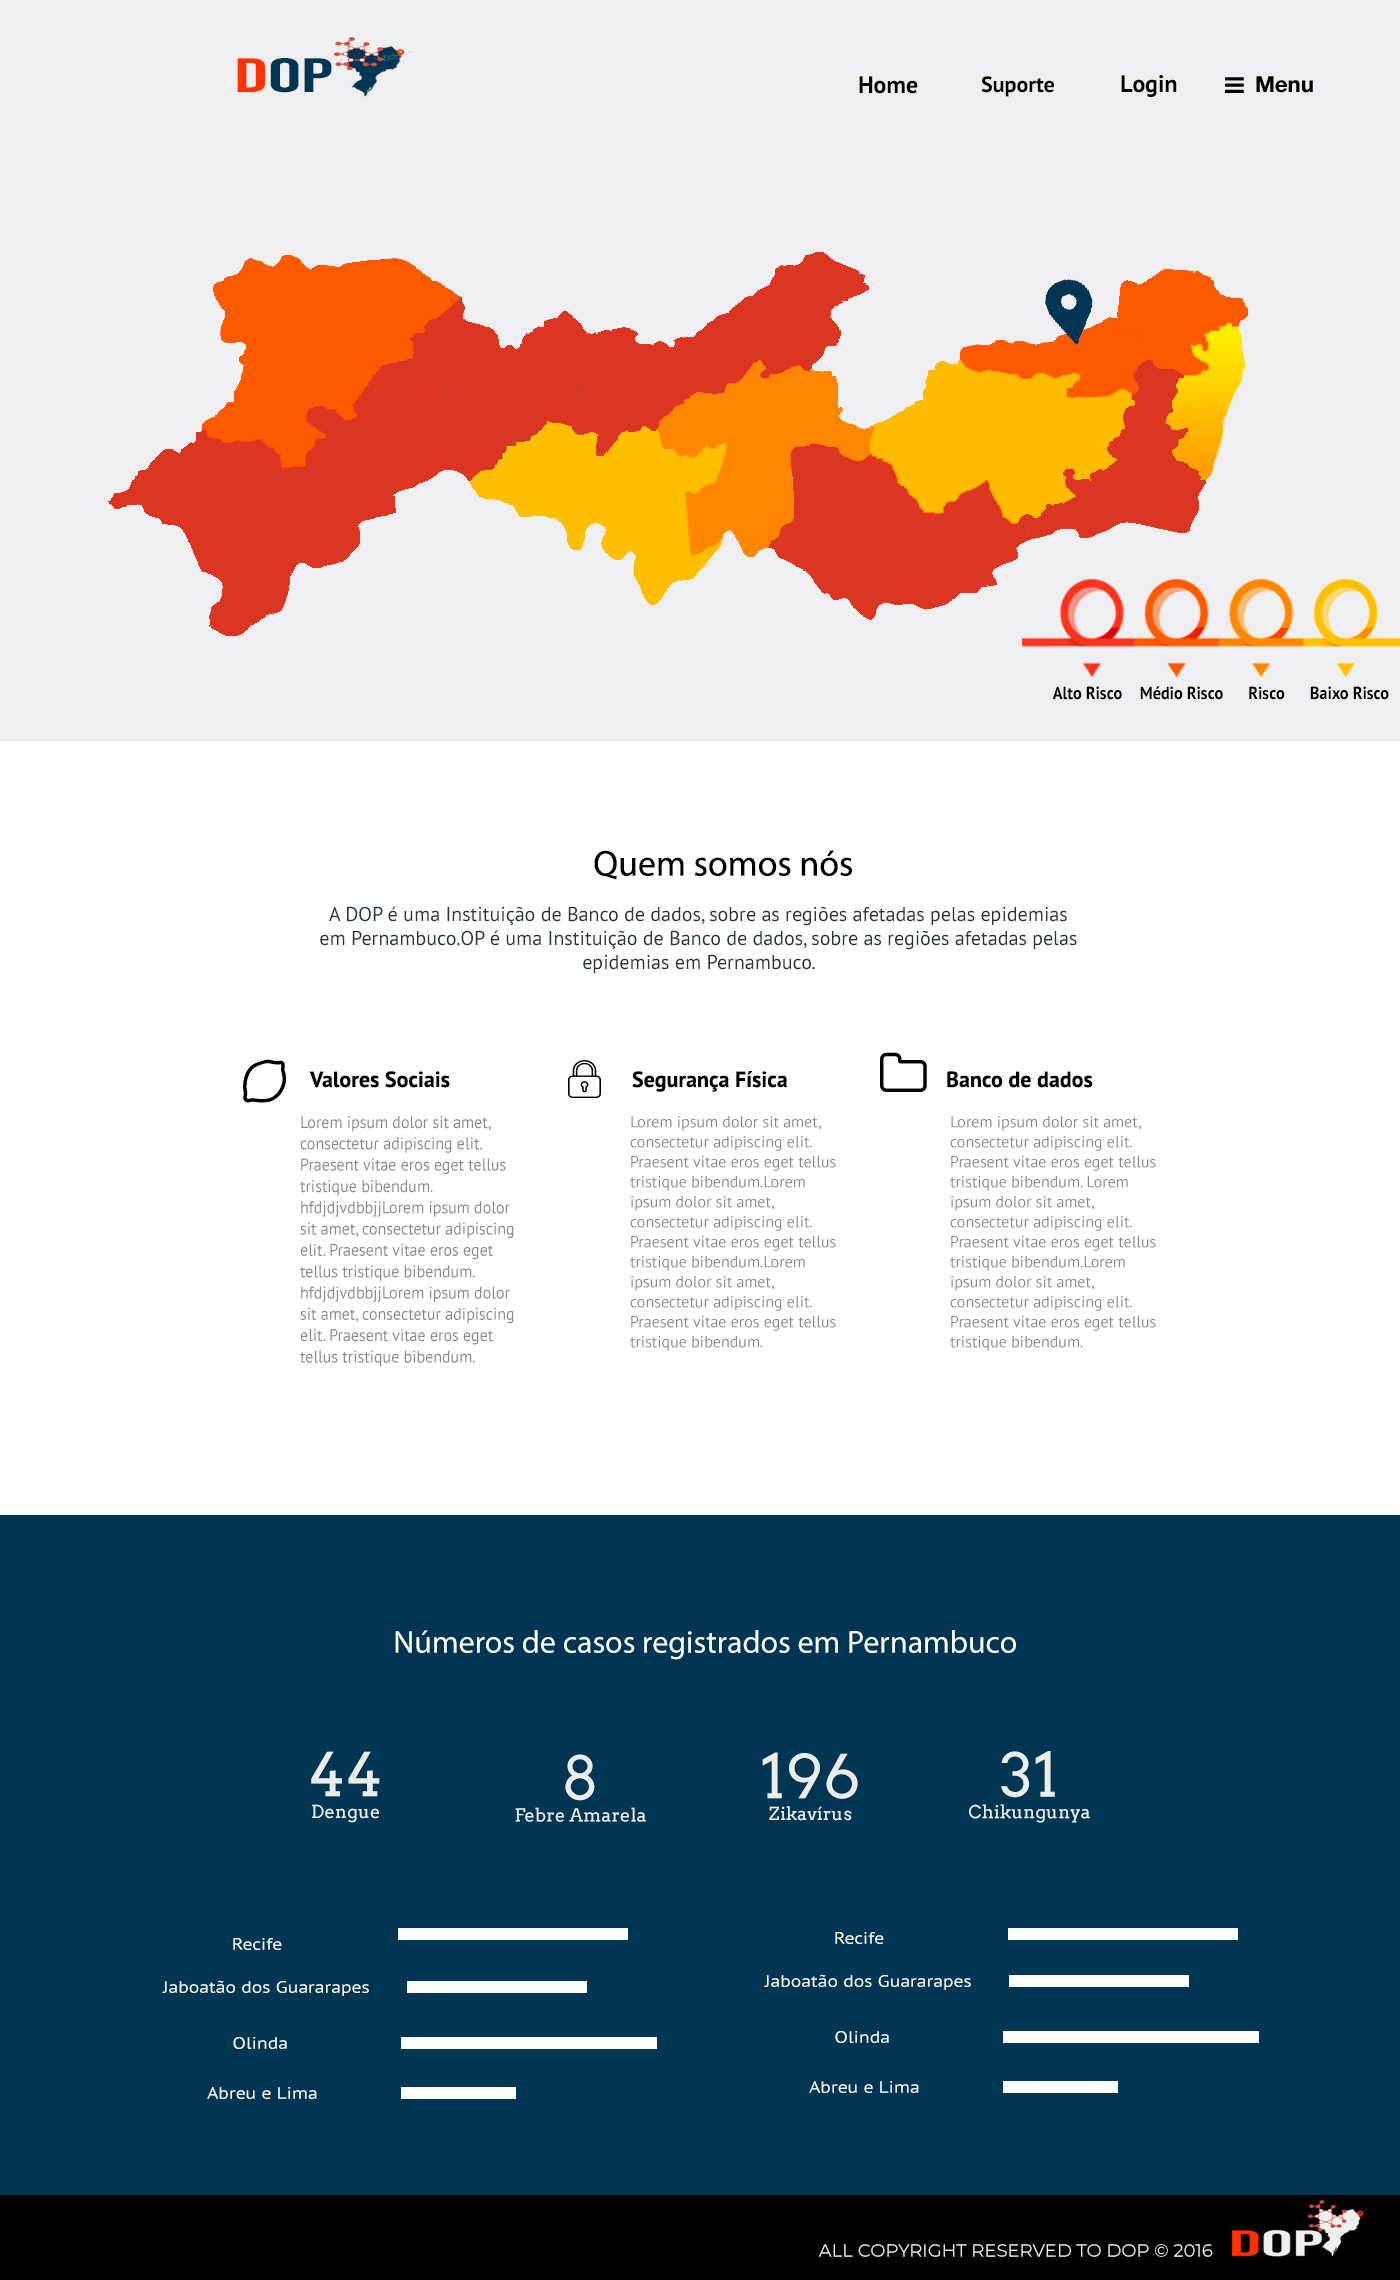
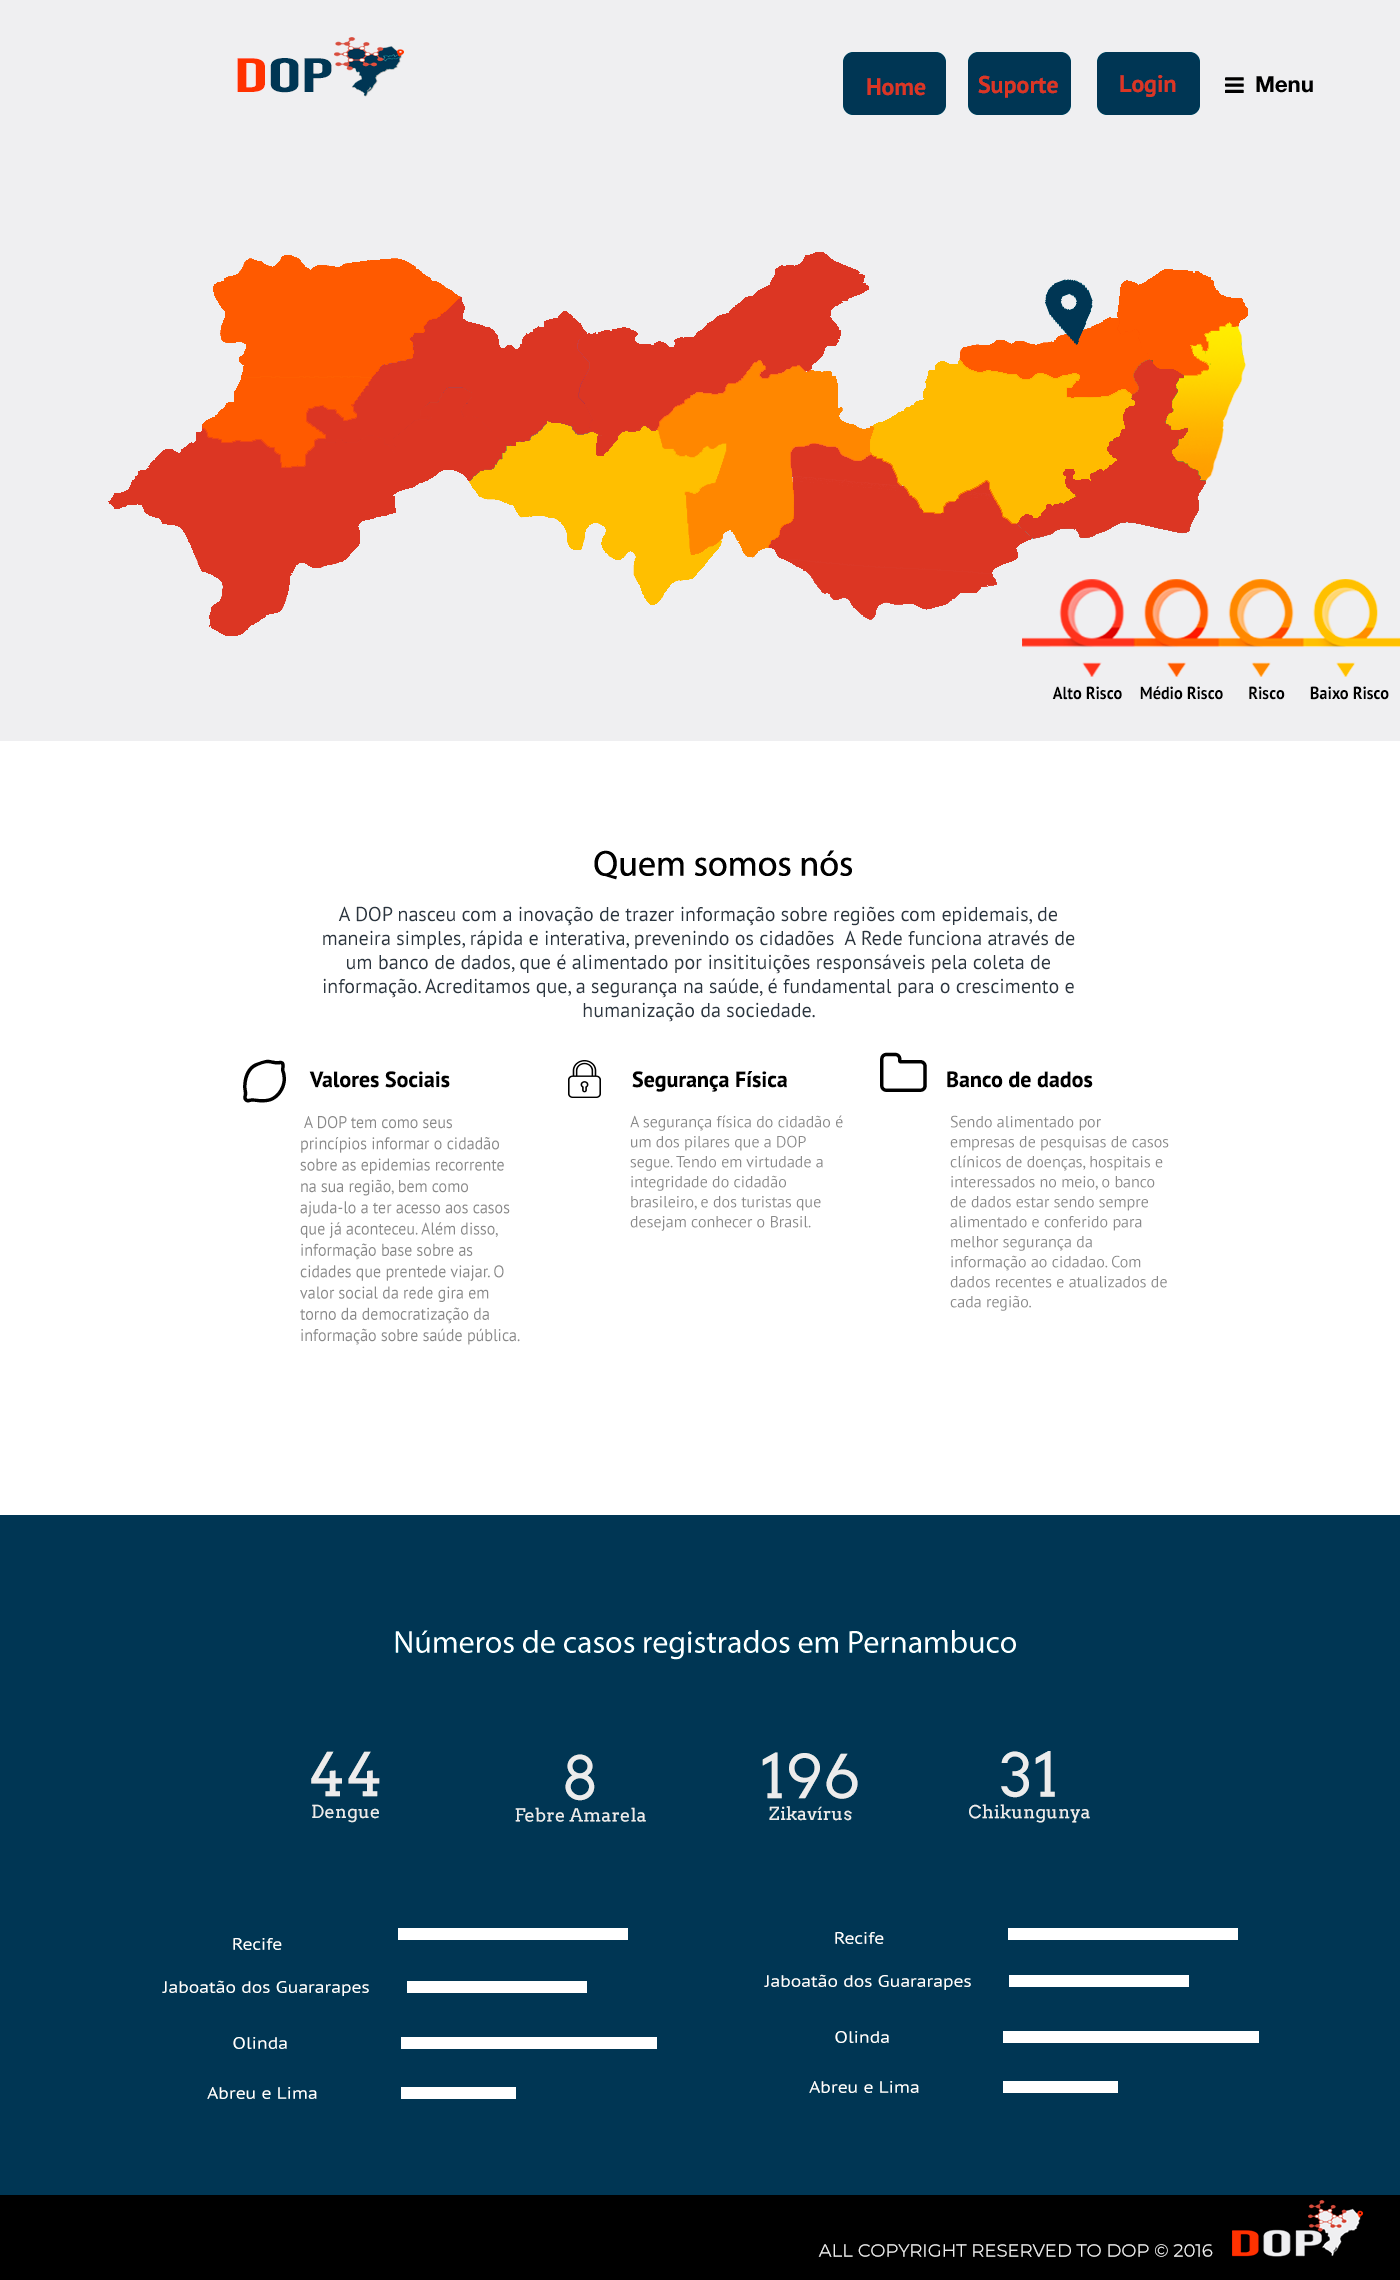
Add files via upload

diff --git a/Website for the end user/index.html b/Website for the end user/index.html
@@ -1,20 +1,35 @@
 <!DOCTYPE html>
 <html>
   <head>
+    <title>DOP.</title>
     <style>
     #bg {
+      z-index: -1;
   position: absolute;
   top: 0;
   left: 0;
+  margin-left: 20%;
+  margin-right: 20%;
 
-  min-width: 100%;
+  width: 60%;
   min-height: 100%;
-  overflow: visible;
+}
+  .butt{
+    padding: 30px;
+    float: left;
+
+    margin-left: 60;
+    border-radius: 20px;
+    width: 59px;
+    height: 18px;
+    background-color: rgba(255,255,65,0.5)
 }
     </style>
 
   </head>
   <body>
+
+
     <img src="SITE.png" id="bg" alt="">
 
   </body>
